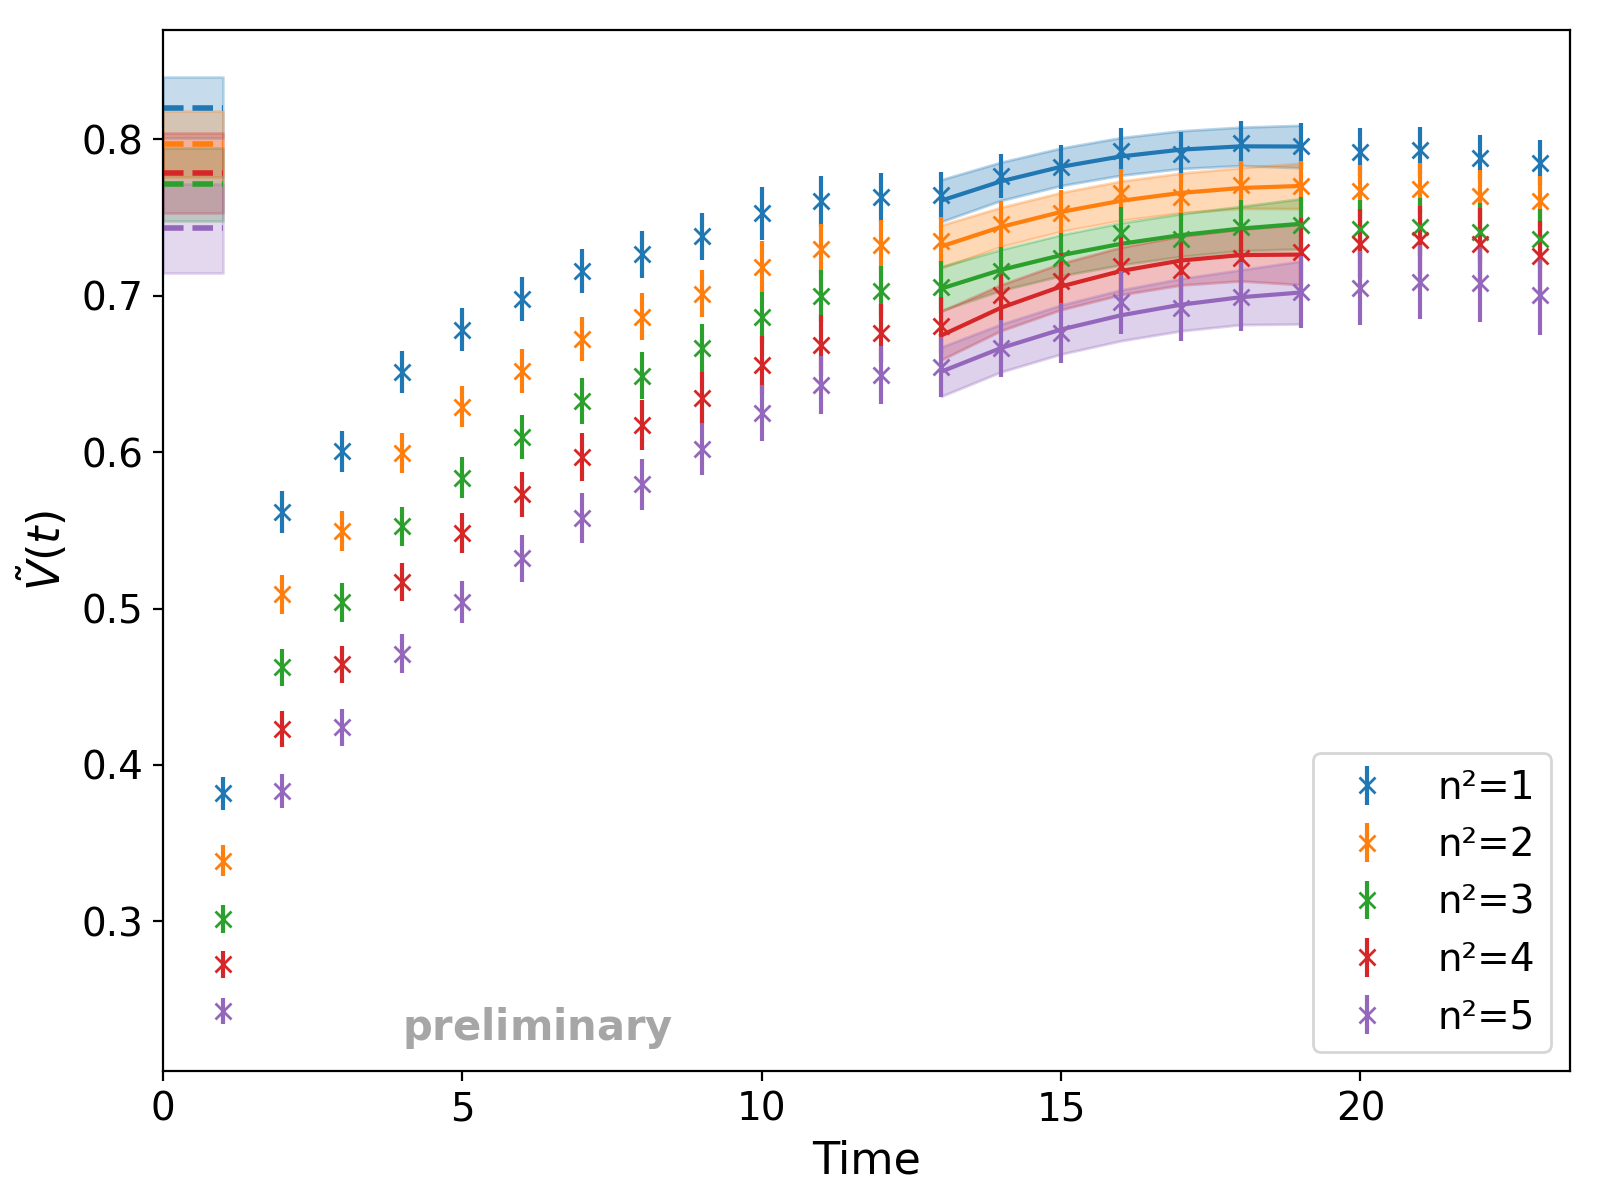
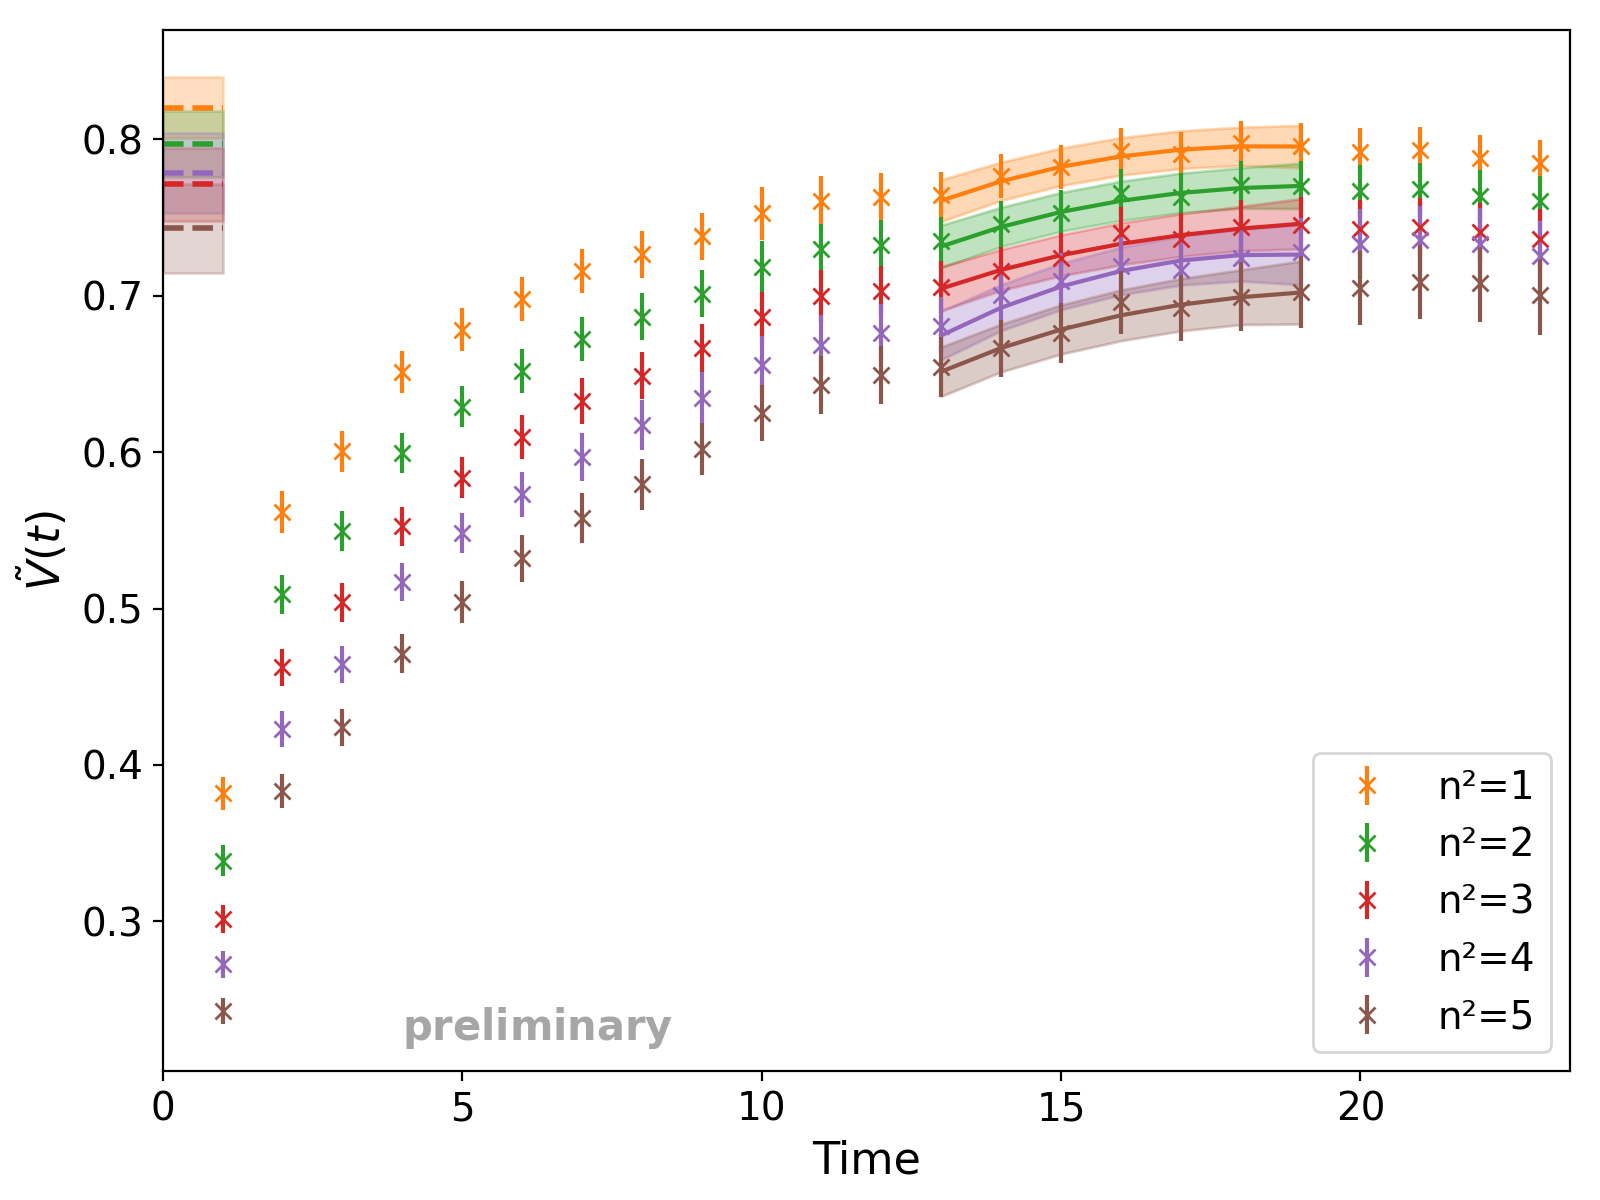
Added Combined excited

diff --git a/Code/Plot-Excited-Combined.py b/Code/Plot-Excited-Combined.py
@@ -12,7 +12,7 @@ from FitModel import model_eq30  # importiere deine Modellfunktion
 # --- Configuration ---
 ensemble = "F1S"
 cmass = '0.259'
-FF = "A1"
+FF = "V"
 
 fit_file = f"../Results/{ensemble}/{cmass}/Fit/Excited-combined-{FF}.csv"
 out_plot = f"../Results/{ensemble}/{cmass}/Fit/Excited-combined-{FF}-Plot.pdf"
@@ -119,7 +119,7 @@ def plot_all_t_eq30(
     fit_mask = (t_all >= reg_low) & (t_all < reg_up)
 
     for i, nsq in enumerate(nsq_order):
-        color = colors[i % len(colors)]
+        color = colors[nsq % len(colors)]
         data_mean = all_ratios[int(nsq)][:, -1]
         data_err  = all_errs[int(nsq)]
 
@@ -192,9 +192,9 @@ def plot_all_t_eq30(
     plt.xlabel("Time", fontsize=16)
     plt.xticks(np.arange(0, int(max(t_all)) + 1, 5))  # force integer x-ticks
     
-    #plt.ylabel(r"$\tilde{V}(t)$", fontsize=16)
+    plt.ylabel(r"$\tilde{V}(t)$", fontsize=16)
     #plt.ylabel(r"$\tilde{A_0}(t)$", fontsize=16)
-    plt.ylabel(r"$\tilde{A_1}(t)$", fontsize=16)
+    #plt.ylabel(r"$\tilde{A_1}(t)$", fontsize=16)
     #plt.ylim(0.05, 0.3)
     #plt.ylim(0.2,0.8)
     #plt.ylim(0.3,1.2)
